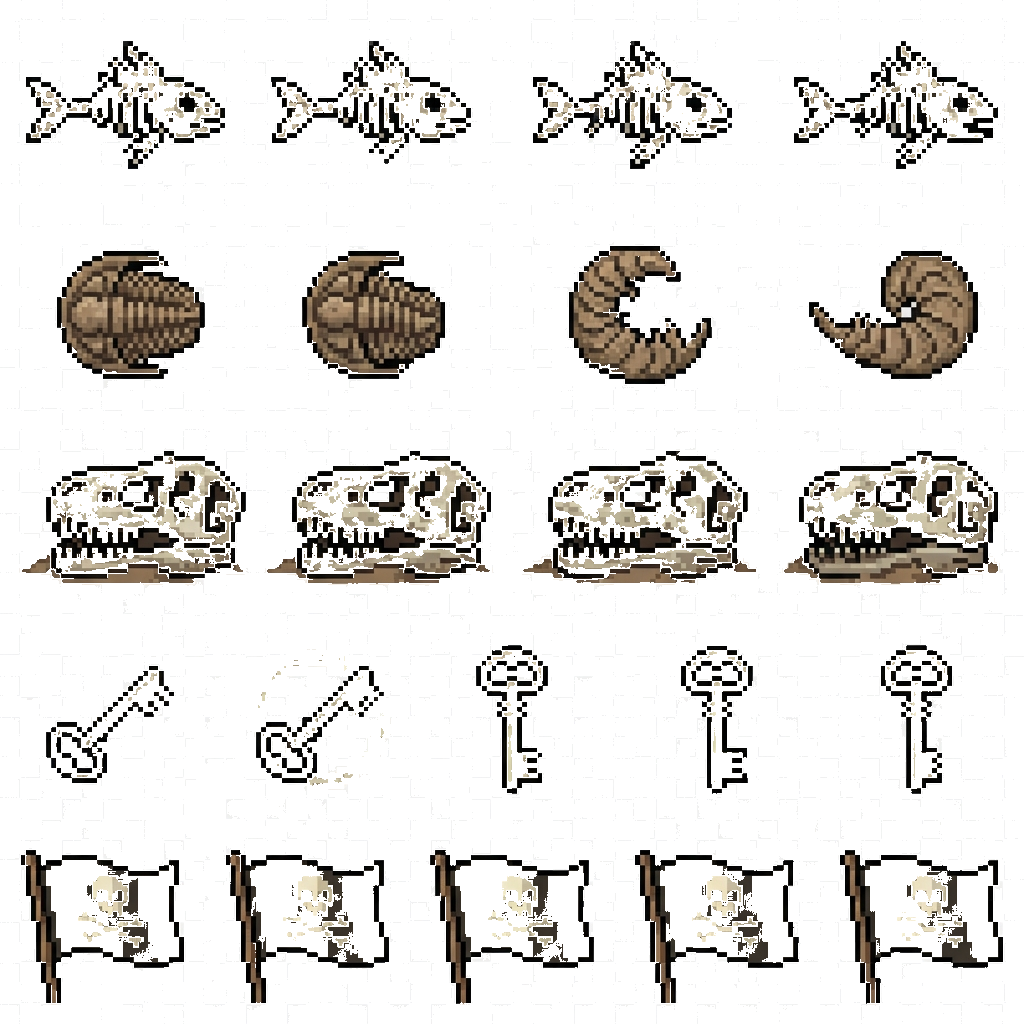
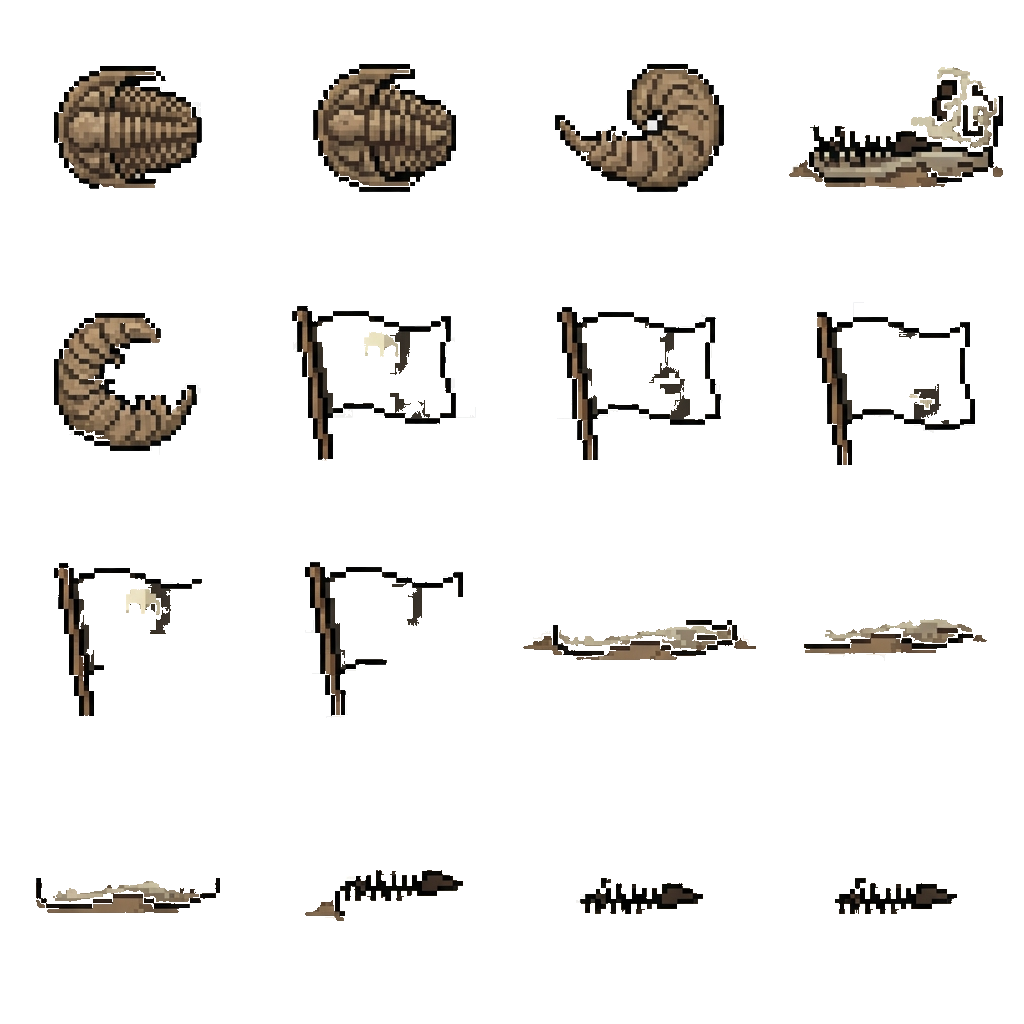
Repack and center all sprites into a perfect 4x4 grid

diff --git a/repack_in_place.py b/repack_in_place.py
@@ -1,0 +1,91 @@
+import glob
+from PIL import Image
+
+def find_sprites(img_path):
+    img = Image.open(img_path).convert("RGBA")
+    width, height = img.size
+    pixels = img.load()
+    
+    visited = set()
+    sprites = []
+    
+    for y in range(height):
+        for x in range(width):
+            if pixels[x,y][3] > 0 and (x,y) not in visited:
+                queue = [(x,y)]
+                sprite_pixels = []
+                min_x, max_x = x, x
+                min_y, max_y = y, y
+                
+                visited.add((x,y))
+                
+                while queue:
+                    cx, cy = queue.pop(0)
+                    sprite_pixels.append((cx, cy, pixels[cx,cy]))
+                    
+                    min_x = min(min_x, cx)
+                    max_x = max(max_x, cx)
+                    min_y = min(min_y, cy)
+                    max_y = max(max_y, cy)
+                    
+                    for dx, dy in [(-1,0), (1,0), (0,-1), (0,1), (-1,-1), (-1,1), (1,-1), (1,1)]:
+                        nx, ny = cx + dx, cy + dy
+                        if 0 <= nx < width and 0 <= ny < height:
+                            if (nx, ny) not in visited and pixels[nx,ny][3] > 0:
+                                visited.add((nx,ny))
+                                queue.append((nx,ny))
+                
+                if len(sprite_pixels) > 50:
+                    # Calculate center to determine which cell it belongs to
+                    center_x = (min_x + max_x) // 2
+                    center_y = (min_y + max_y) // 2
+                    cell_col = min(3, max(0, center_x // 256))
+                    cell_row = min(3, max(0, center_y // 256))
+                    
+                    sprites.append({
+                        'min_x': min_x, 'max_x': max_x,
+                        'min_y': min_y, 'max_y': max_y,
+                        'pixels': sprite_pixels,
+                        'cell_row': cell_row,
+                        'cell_col': cell_col
+                    })
+    return sprites
+
+for f in glob.glob("public/assets/fishing/*.png"):
+    sprites = find_sprites(f)
+    
+    # Map to cells
+    cells = {}
+    for s in sprites:
+        key = (s['cell_row'], s['cell_col'])
+        if key not in cells:
+            cells[key] = []
+        cells[key].append(s)
+        
+    new_img = Image.new("RGBA", (1024, 1024), (0,0,0,0))
+    cell_w, cell_h = 256, 256
+    
+    for row in range(4):
+        for col in range(4):
+            key = (row, col)
+            if key in cells:
+                # Get largest sprite in this cell
+                cell_sprites = cells[key]
+                s = max(cell_sprites, key=lambda x: len(x['pixels']))
+                
+                s_w = s['max_x'] - s['min_x'] + 1
+                s_h = s['max_y'] - s['min_y'] + 1
+                
+                # If sprite is too big for cell, we'll just scale it down later or let it overflow slightly.
+                # Let's center it perfectly.
+                offset_x = col * cell_w + (cell_w - s_w) // 2
+                offset_y = row * cell_h + (cell_h - s_h) // 2
+                
+                for px, py, color in s['pixels']:
+                    new_x = offset_x + (px - s['min_x'])
+                    new_y = offset_y + (py - s['min_y'])
+                    if 0 <= new_x < 1024 and 0 <= new_y < 1024:
+                        new_img.putpixel((new_x, new_y), color)
+                        
+    new_img.save(f, "PNG")
+    print(f"Centered sprites in {f}")

diff --git a/repack_sprites.py b/repack_sprites.py
@@ -1,0 +1,78 @@
+import glob
+from PIL import Image
+
+def find_sprites(img_path):
+    img = Image.open(img_path).convert("RGBA")
+    width, height = img.size
+    pixels = img.load()
+    
+    visited = set()
+    sprites = []
+    
+    for y in range(height):
+        for x in range(width):
+            if pixels[x,y][3] > 0 and (x,y) not in visited:
+                # BFS to find the whole sprite
+                queue = [(x,y)]
+                sprite_pixels = []
+                min_x, max_x = x, x
+                min_y, max_y = y, y
+                
+                visited.add((x,y))
+                
+                while queue:
+                    cx, cy = queue.pop(0)
+                    sprite_pixels.append((cx, cy, pixels[cx,cy]))
+                    
+                    min_x = min(min_x, cx)
+                    max_x = max(max_x, cx)
+                    min_y = min(min_y, cy)
+                    max_y = max(max_y, cy)
+                    
+                    for dx, dy in [(-1,0), (1,0), (0,-1), (0,1), (-1,-1), (-1,1), (1,-1), (1,1)]:
+                        nx, ny = cx + dx, cy + dy
+                        if 0 <= nx < width and 0 <= ny < height:
+                            if (nx, ny) not in visited and pixels[nx,ny][3] > 0:
+                                visited.add((nx,ny))
+                                queue.append((nx,ny))
+                
+                # Only keep if it's reasonably sized (ignore tiny 1-pixel artifacts)
+                if len(sprite_pixels) > 50:
+                    sprites.append({
+                        'min_x': min_x, 'max_x': max_x,
+                        'min_y': min_y, 'max_y': max_y,
+                        'pixels': sprite_pixels
+                    })
+    return sprites, img
+
+for f in glob.glob("public/assets/fishing/*.png"):
+    sprites, original = find_sprites(f)
+    print(f"{f}: found {len(sprites)} sprites")
+    
+    # Sort sprites by size (largest first) to get the main fish
+    sprites.sort(key=lambda s: len(s['pixels']), reverse=True)
+    
+    # Create a new perfect 4x4 grid
+    new_img = Image.new("RGBA", (1024, 1024), (0,0,0,0))
+    cell_w, cell_h = 256, 256
+    
+    for i in range(min(16, len(sprites))):
+        s = sprites[i]
+        row = i // 4
+        col = i % 4
+        
+        # Center the sprite in the cell
+        s_w = s['max_x'] - s['min_x'] + 1
+        s_h = s['max_y'] - s['min_y'] + 1
+        
+        offset_x = col * cell_w + (cell_w - s_w) // 2
+        offset_y = row * cell_h + (cell_h - s_h) // 2
+        
+        for px, py, color in s['pixels']:
+            new_x = offset_x + (px - s['min_x'])
+            new_y = offset_y + (py - s['min_y'])
+            if 0 <= new_x < 1024 and 0 <= new_y < 1024:
+                new_img.putpixel((new_x, new_y), color)
+                
+    new_img.save(f, "PNG")
+    print(f"Repacked {f}")
